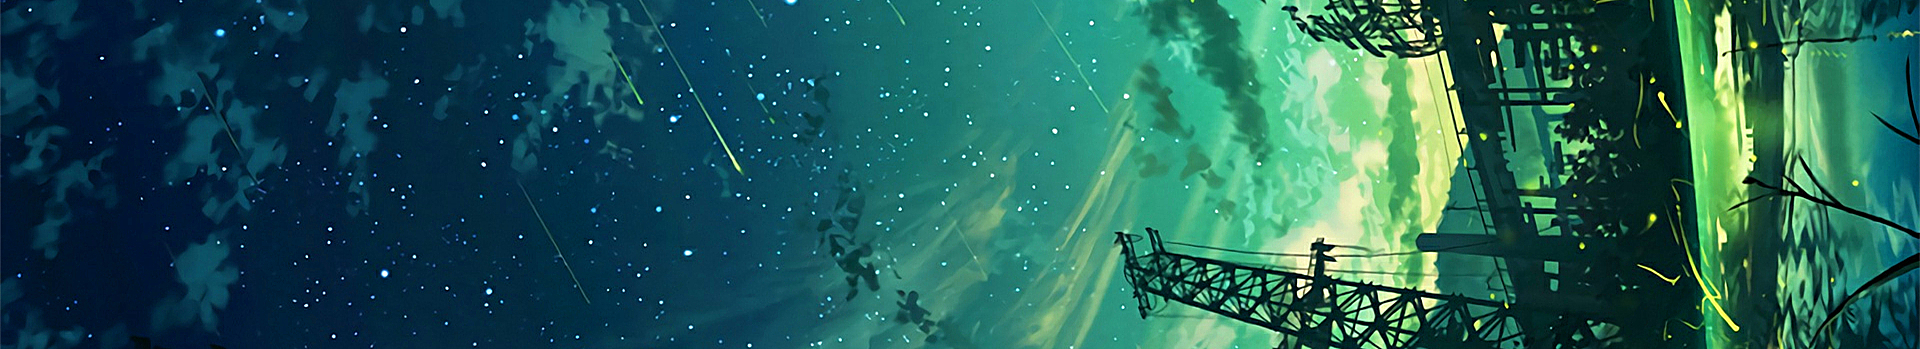
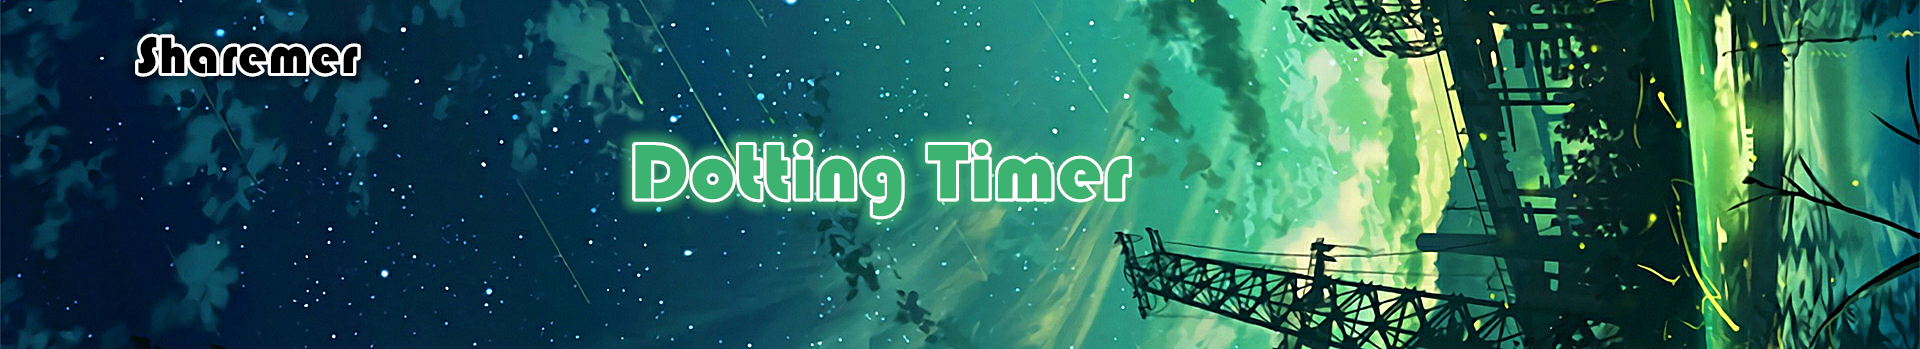
client调整

Changed region(s): [[0.3125, 0.3725, 0.5938, 0.659], [0.0625, 0.086, 0.1875, 0.2292]]

diff --git a/client/src/main/resources/static/css/base/dashboard.css b/client/src/main/resources/static/css/base/dashboard.css
@@ -20,6 +20,7 @@ body {
     font-family: ImmeHybrid, "Microsoft Yahei", "STXihei", "Helvetica Neue",
     Helvetica, Arial, sans-serif;
     position: relative;
+    background-color: #f5f5f5;
 }
 
 a {
@@ -473,12 +474,12 @@ label.required {
     cursor: pointer;
 }
 
-.tag_text{
+.tag_text {
     border-top: 0;
     border-left: 0;
     border-right: 0;
     border-bottom: 1px solid #d1d1d1;
-    background:rgba(0, 0, 0, 0);
+    background: rgba(0, 0, 0, 0);
 }
 
 .page_unit:hover {
@@ -491,12 +492,61 @@ label.required {
     color: #FFF;
 }
 
+#listView {
+    padding: 10px 35px 35px 35px;
+    background-color: #f5f5f5;
+}
 
 .header_top {
     width: 100%;
     height: 170px;
-    background-image: url("/images/bgimg.jpg");
+    background-image: url("/images/bgimg2.jpg");
     background-size: 100% 100%;
     margin-bottom: 20px;
-    box-shadow:0 0 10px #6a6a6a;
+    box-shadow: 0 0 10px #6a6a6a;
+}
+
+.top_area{
+    width: auto;
+    min-width: 10px;
+    min-height: 10px;
+    height: auto;
+    float: left;
+    margin-top: 40px;
+    margin-left: 100px;
+}
+.avater {
+    width: 50px;
+    height: 50px;
+    float: left;
+    border-radius: 100px;
+    border: 4px solid #ff756f;
+    background-image: url("/images/avater.png");
+    background-size: 100% 100%;
+    box-shadow: 0 0 30px #ff606c;
+}
+
+.u_info_others{
+    padding: 10px;
+    line-height: 1.8;
+    margin-left: 20px;
+    position: relative;
+    width: 400px;
+    height: 100px;
+    background-color: rgba(255, 255, 255, 0.8);
+    border-radius: 4px;
+    float: left;
+}
+
+.u_info_others:before{
+    position: absolute;
+    content: "";
+    width: 0;
+    height: 0;
+    right: 400px;
+    top: 40px;
+    opacity:0.8;
+    border-right: 10px solid #fff;
+    border-top: 10px solid transparent;
+    border-bottom: 10px solid transparent;
 }

diff --git a/client/src/main/resources/static/ng/module/tree/view/SpanInfoView.js b/client/src/main/resources/static/ng/module/tree/view/SpanInfoView.js
@@ -4,6 +4,7 @@ define(function (require, exports, module) {
     seajs.use('./css/module/orgchart/tree/jquery.orgchart.css');
     seajs.use('./css/module/orgchart/tree/style.css');
     seajs.use('./css/module/orgchart/tree/tree_style.css');
+    seajs.use('./css/module/span_info.css');
 
     var mainTemp = require('module/tree/tpl/SpanInfoView.tpl');
     var modalTemp = require('module/tree/tpl/NodeModal.tpl');
@@ -74,7 +75,7 @@ define(function (require, exports, module) {
                     htm += this.rateTimeHtm(min_rate, node.min_duration);
                     htm += "</td></tr>";
                 }
-                htm += "<tr><td>其他信息</td><td style='word-wrap:break-word'>"+node.tags+"</td></tr>"
+                htm += "<tr><td>其他信息</td><td style='word-wrap:break-word'>" + node.tags + "</td></tr>"
                 htm += "</tbody></table>";
                 this.$el.find('.modal-body').html(htm);
             }
@@ -106,7 +107,12 @@ define(function (require, exports, module) {
                         });
 
                         var slaveNum = resp.data.slaveThread.length;
-                        view.$el.find('.async_num').text(slaveNum)
+                        if (slaveNum == null || slaveNum == 0) {
+                            view.$el.find('.async_num').html("该主线程并没有产生任何子线程链路~");
+                        } else {
+                            view.$el.find('.async_num').html("该主线程共产生<span style='font-weight: bolder; color: #ff869a'>"+slaveNum+"</span>个子线程");
+                        }
+
                         view.model.tree_nodes = {};//清理
                         for (var i = 0; i < slaveNum; i++) {
                             view.makeTree(view.model.tree_nodes, resp.data.slaveThread[i]);

diff --git a/client/src/main/resources/static/css/module/span_info.css b/client/src/main/resources/static/css/module/span_info.css
@@ -1,0 +1,65 @@
+.unit_info{
+    margin-bottom: 10px;
+    width: auto;
+    min-width: 10px;
+    min-height: 10px;
+    height: auto;
+    float: left;
+}
+
+.unit_avater {
+    width: 50px;
+    height: 50px;
+    float: left;
+    border-radius: 100px;
+    background-size: 100% 100%;
+}
+
+.unit_intro{
+    padding: 10px;
+    line-height: 1.8;
+    margin-left: 20px;
+    position: relative;
+    width: 1120px;
+    height: 50px;
+    background-color: #fff8a1;
+    border-radius: 4px;
+    float: left;
+}
+
+.unit_intro:before{
+    position: absolute;
+    content: "";
+    width: 0;
+    height: 0;
+    right: 1120px;
+    top: 15px;
+    border-right: 10px solid #fff8a1;
+    border-top: 10px solid transparent;
+    border-bottom: 10px solid transparent;
+}
+
+
+.unit_intro_main{
+    padding: 10px;
+    line-height: 1.8;
+    margin-left: 20px;
+    position: relative;
+    width: 1120px;
+    height: 50px;
+    background-color: #d0eaff;
+    border-radius: 4px;
+    float: left;
+}
+
+.unit_intro_main:before{
+    position: absolute;
+    content: "";
+    width: 0;
+    height: 0;
+    right: 1120px;
+    top: 15px;
+    border-right: 10px solid #d0eaff;
+    border-top: 10px solid transparent;
+    border-bottom: 10px solid transparent;
+}

diff --git a/client/src/main/resources/templates/home.html b/client/src/main/resources/templates/home.html
@@ -20,11 +20,19 @@
     <link rel="stylesheet" href="/css/base/dashboard.css">
 </head>
 
-<body style="word-break:break-all">
+<body style="word-break:break-all;">
 <div class="header_top">
+    <div class="top_area">
+        <div class="avater" style="margin-top: 25px"></div>
+        <div class="u_info_others">
+            <center><span style="font-size: 16px; font-weight: bold">系 统 公 告</span></center>
+            您好，欢迎使用Dotting Timer！<br/>
+            Hi! Welcome to use Dotting Timer!
+        </div>
+    </div>
 
 </div>
-<div class="container-fluid" style="background-color:#FFF;">
+<div class="container-fluid">
     <div class="row">
 
         <div class="main">
